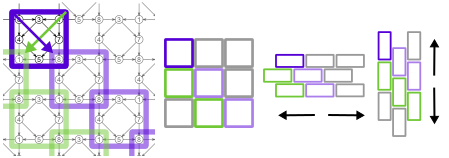
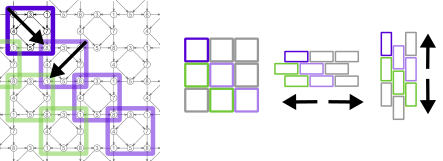
nudge tile in diagonal directions

diff --git a/docs/_includes/tiles-form.html b/docs/_includes/tiles-form.html
@@ -479,44 +479,47 @@
     </fieldset>
     <fieldset id="repeats-form" style="display:inline-block;vertical-align:top;">
         <legend>Repeats</legend>
-        <div style="display:inline-block;vertical-align:top;">
+        <p>
+            <label for="repeatWidth">Patch size</label>
+            <input type="number" name="repeatWidth" id="repeatWidth" min="0" max="30" value="3" onchange="showProto()">
+            <label for="repeatWidth">col(s)</label>
+            <input type="number" name="repeatHeight" id="repeatHeight" min="0" max="30" value="12" onchange="showProto()">
+            <label for="repeatHeight">rows(s)</label>
+        </p>
+        <div>
             <div>
-                <label for="repeatWidth">Show with</label>
-                <input type="number" name="repeatWidth" id="repeatWidth" min="0" max="30" value="3" onchange="showProto()">
-                <label for="repeatWidth">col(s)</label>
-                <input type="number" name="repeatHeight" id="repeatHeight" min="0" max="30" value="12" onchange="showProto()">
-                <label for="repeatHeight">rows(s)</label>
+                Shift by
             </div>
-            <p>Initialize as
-                <a href="javascript:asChecker()">checker</a>,
-                nudge bricks:
-                <a href="javascript:brickToLeft()">&#8592;</a>
-                <a href="javascript:brickToRight()">&#8594;</a>
-                <a href="javascript:brickUp()">&#8593;</a>
-                <a href="javascript:brickDown()">&#8595;</a>
-            </p>
             <div>
-                <div>
-                    Shifted by
-                </div>
-                <div>
-                    <input type="number" name="shiftColsSE" id="shiftColsSE" min="0" max="12" value="0" onchange="showProto()"><label for="shiftColsSE">col(s)</label>
-                    <br>
-                    <input type="number" name="shiftRowsSE" id="shiftRowsSE" min="0" max="12" value="0" onchange="showProto()"><label for="shiftRowsSE">row(s)</label>
-                </div>
-                <div>
-                    of stitches &#8664; and
-                </div>
-                <div>
-                    <input type="number" name="shiftColsSW" id="shiftColsSW" min="-12" max="0" value="0" onchange="showProto()">
-                    <br>
-                    <input type="number" name="shiftRowsSW" id="shiftRowsSW" min="0" max="12" value="0" onchange="showProto()">
-                </div>
-                <div>
-                    &#8665;
-                </div>
+                <input type="number" name="shiftColsSE" id="shiftColsSE" min="0" max="12" value="0" onchange="showProto()"><label for="shiftColsSE">col(s)</label>
+                <br>
+                <input type="number" name="shiftRowsSE" id="shiftRowsSE" min="0" max="12" value="0" onchange="showProto()"><label for="shiftRowsSE">row(s)</label>
+            </div>
+            <div>
+                &#8664; and
+            </div>
+            <div>
+                <input type="number" name="shiftColsSW" id="shiftColsSW" min="-12" max="0" value="0" onchange="showProto()">
+                <br>
+                <input type="number" name="shiftRowsSW" id="shiftRowsSW" min="0" max="12" value="0" onchange="showProto()">
+            </div>
+            <div>
+                &#8665;
             </div>
         </div>
+        <p>
+            <em>Initialize and nudge shift:</em>
+            <a href="javascript:asStack()">stacked</a>
+            <a href="javascript:brickToSW()">&#8601;</a>
+            <a href="javascript:brickToNE()">&#8599;</a>
+            <a href="javascript:brickToSE()">&#8600;</a>
+            <a href="javascript:brickToNW()">&#8598;</a>
+            <a href="javascript:asChecker()">checker</a>
+            <a href="javascript:brickToLeft()">&#8592;</a>
+            <a href="javascript:brickToRight()">&#8594;</a>
+            <a href="javascript:brickUp()">&#8593;</a>
+            <a href="javascript:brickDown()">&#8595;</a>
+        </p>
         <img src="../help/images/shift-directions.png" style="display:block">
     </fieldset>
 </form>

diff --git a/docs/js/tiles.js b/docs/js/tiles.js
@@ -162,3 +162,35 @@ function brickDown() {
   document.getElementById('shiftRowsSE').value++
   showProto()
 }
+function asStack() {
+
+  document.getElementById('shiftRowsSE').value = 0
+  document.getElementById('shiftColsSE').value = 0
+  document.getElementById('shiftRowsSW').value = 0
+  document.getElementById('shiftColsSW').value = 0
+  showProto()
+}
+function brickToSW() {
+
+  document.getElementById('shiftColsSW').value--
+  document.getElementById('shiftRowsSW').value++
+  showProto()
+}
+function brickToNE() {
+
+  document.getElementById('shiftColsSW').value++
+  document.getElementById('shiftRowsSW').value--
+  showProto()
+}
+function brickToSE() {
+
+  document.getElementById('shiftColsSE').value++
+  document.getElementById('shiftRowsSE').value++
+  showProto()
+}
+function brickToNW() {
+
+  document.getElementById('shiftColsSE').value--
+  document.getElementById('shiftRowsSE').value--
+  showProto()
+}
